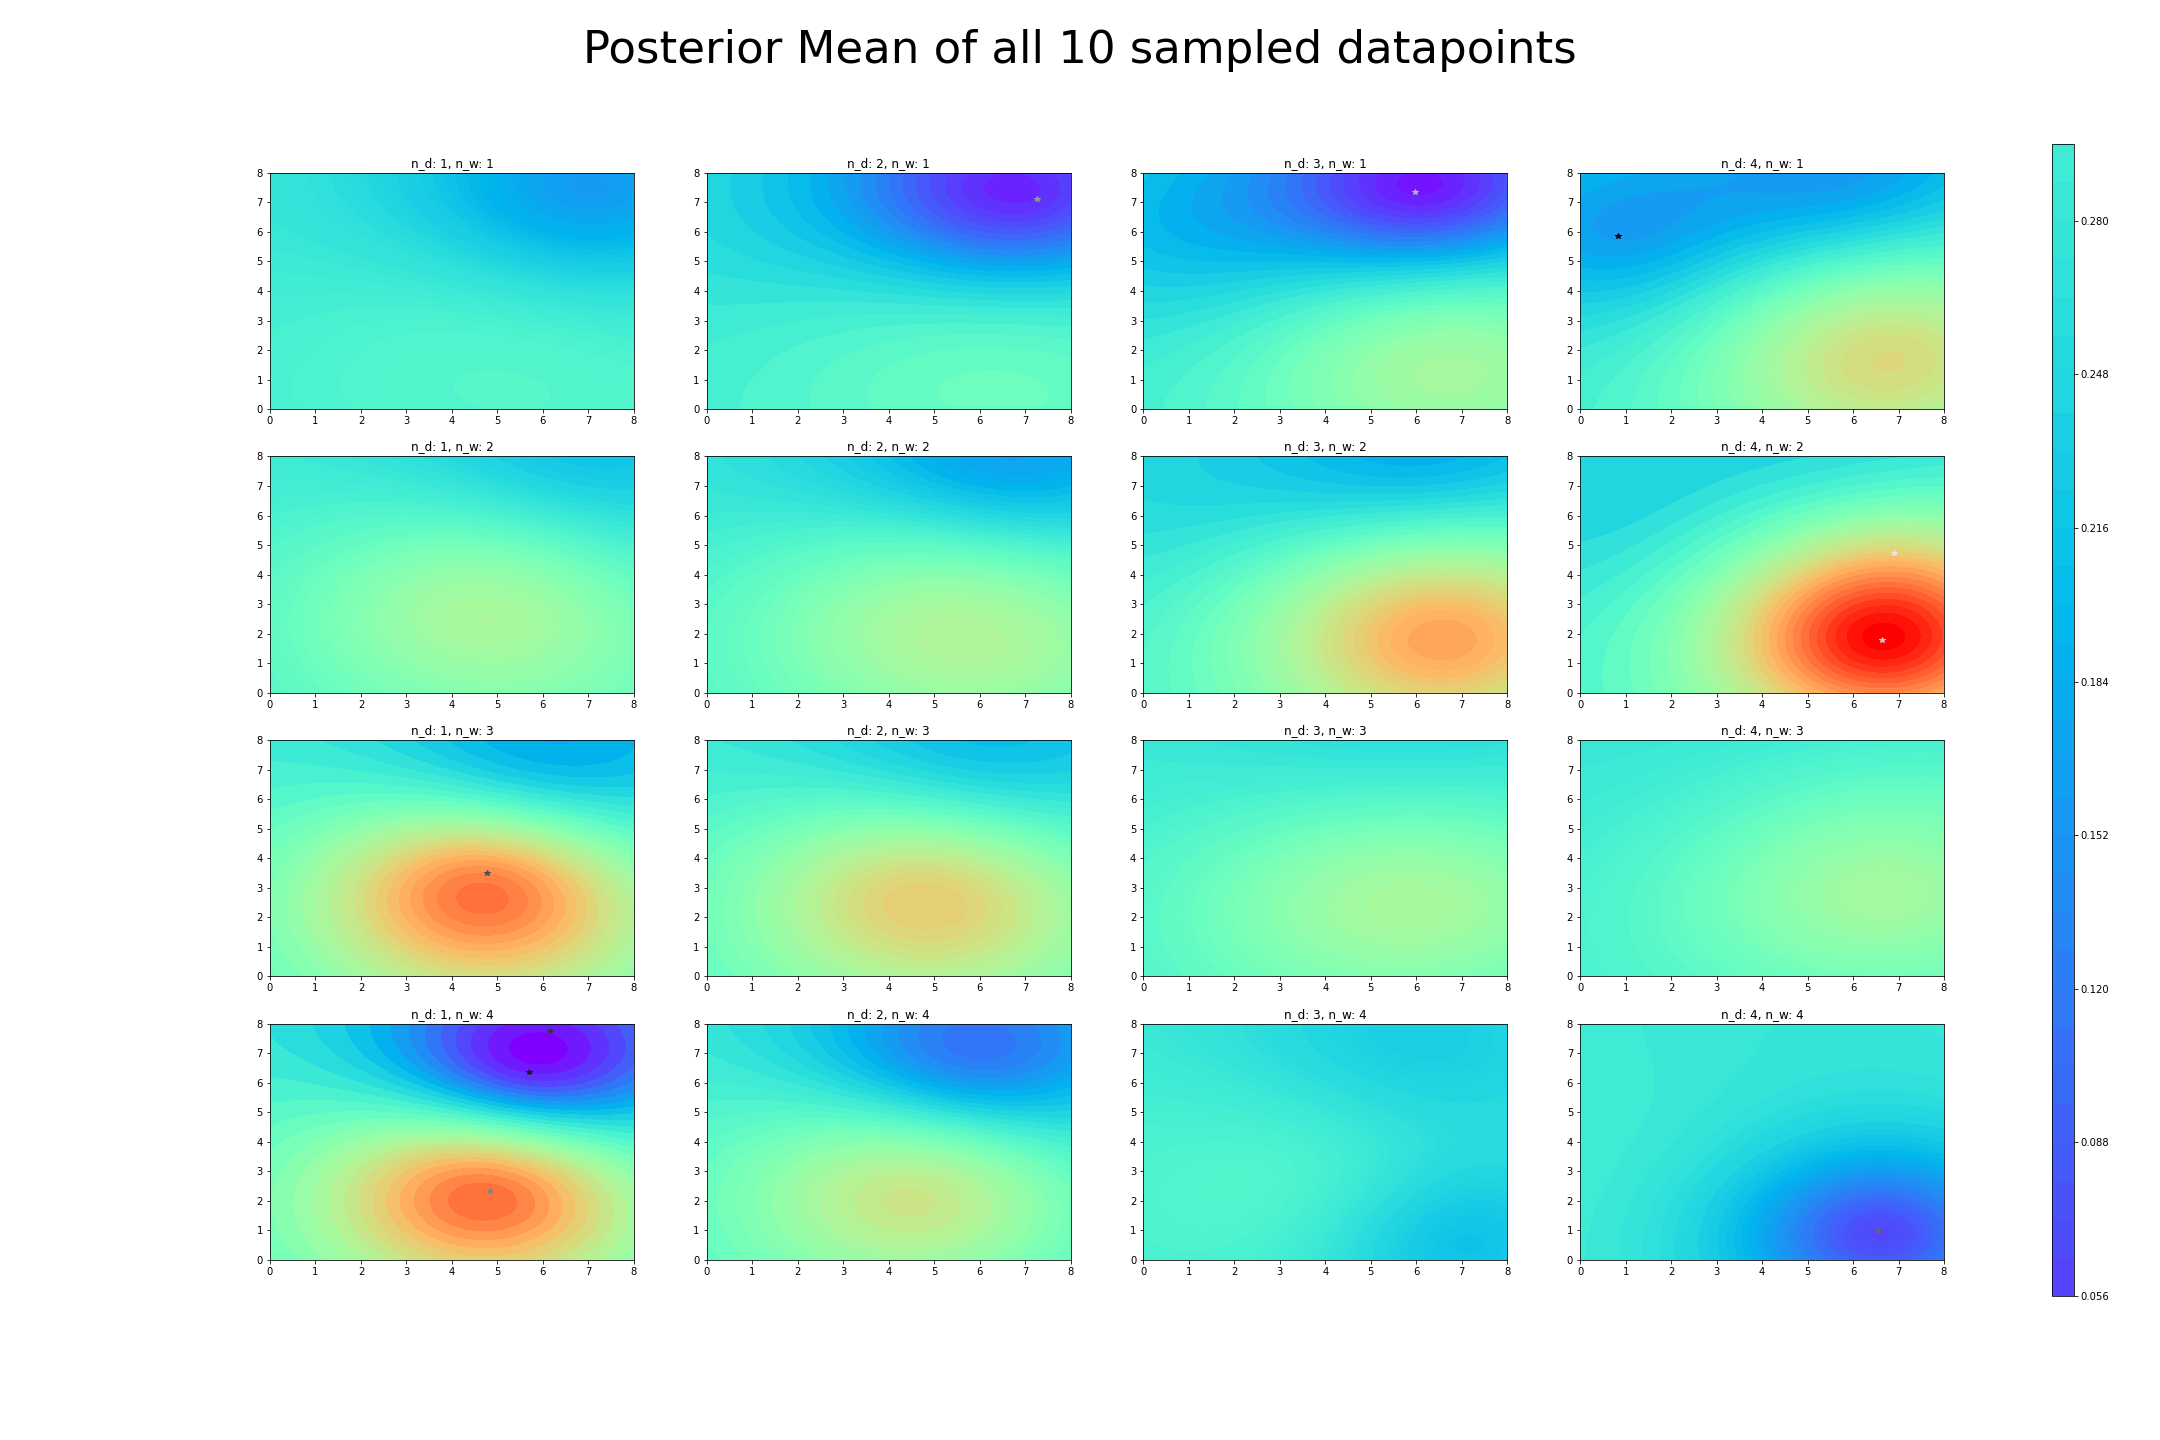
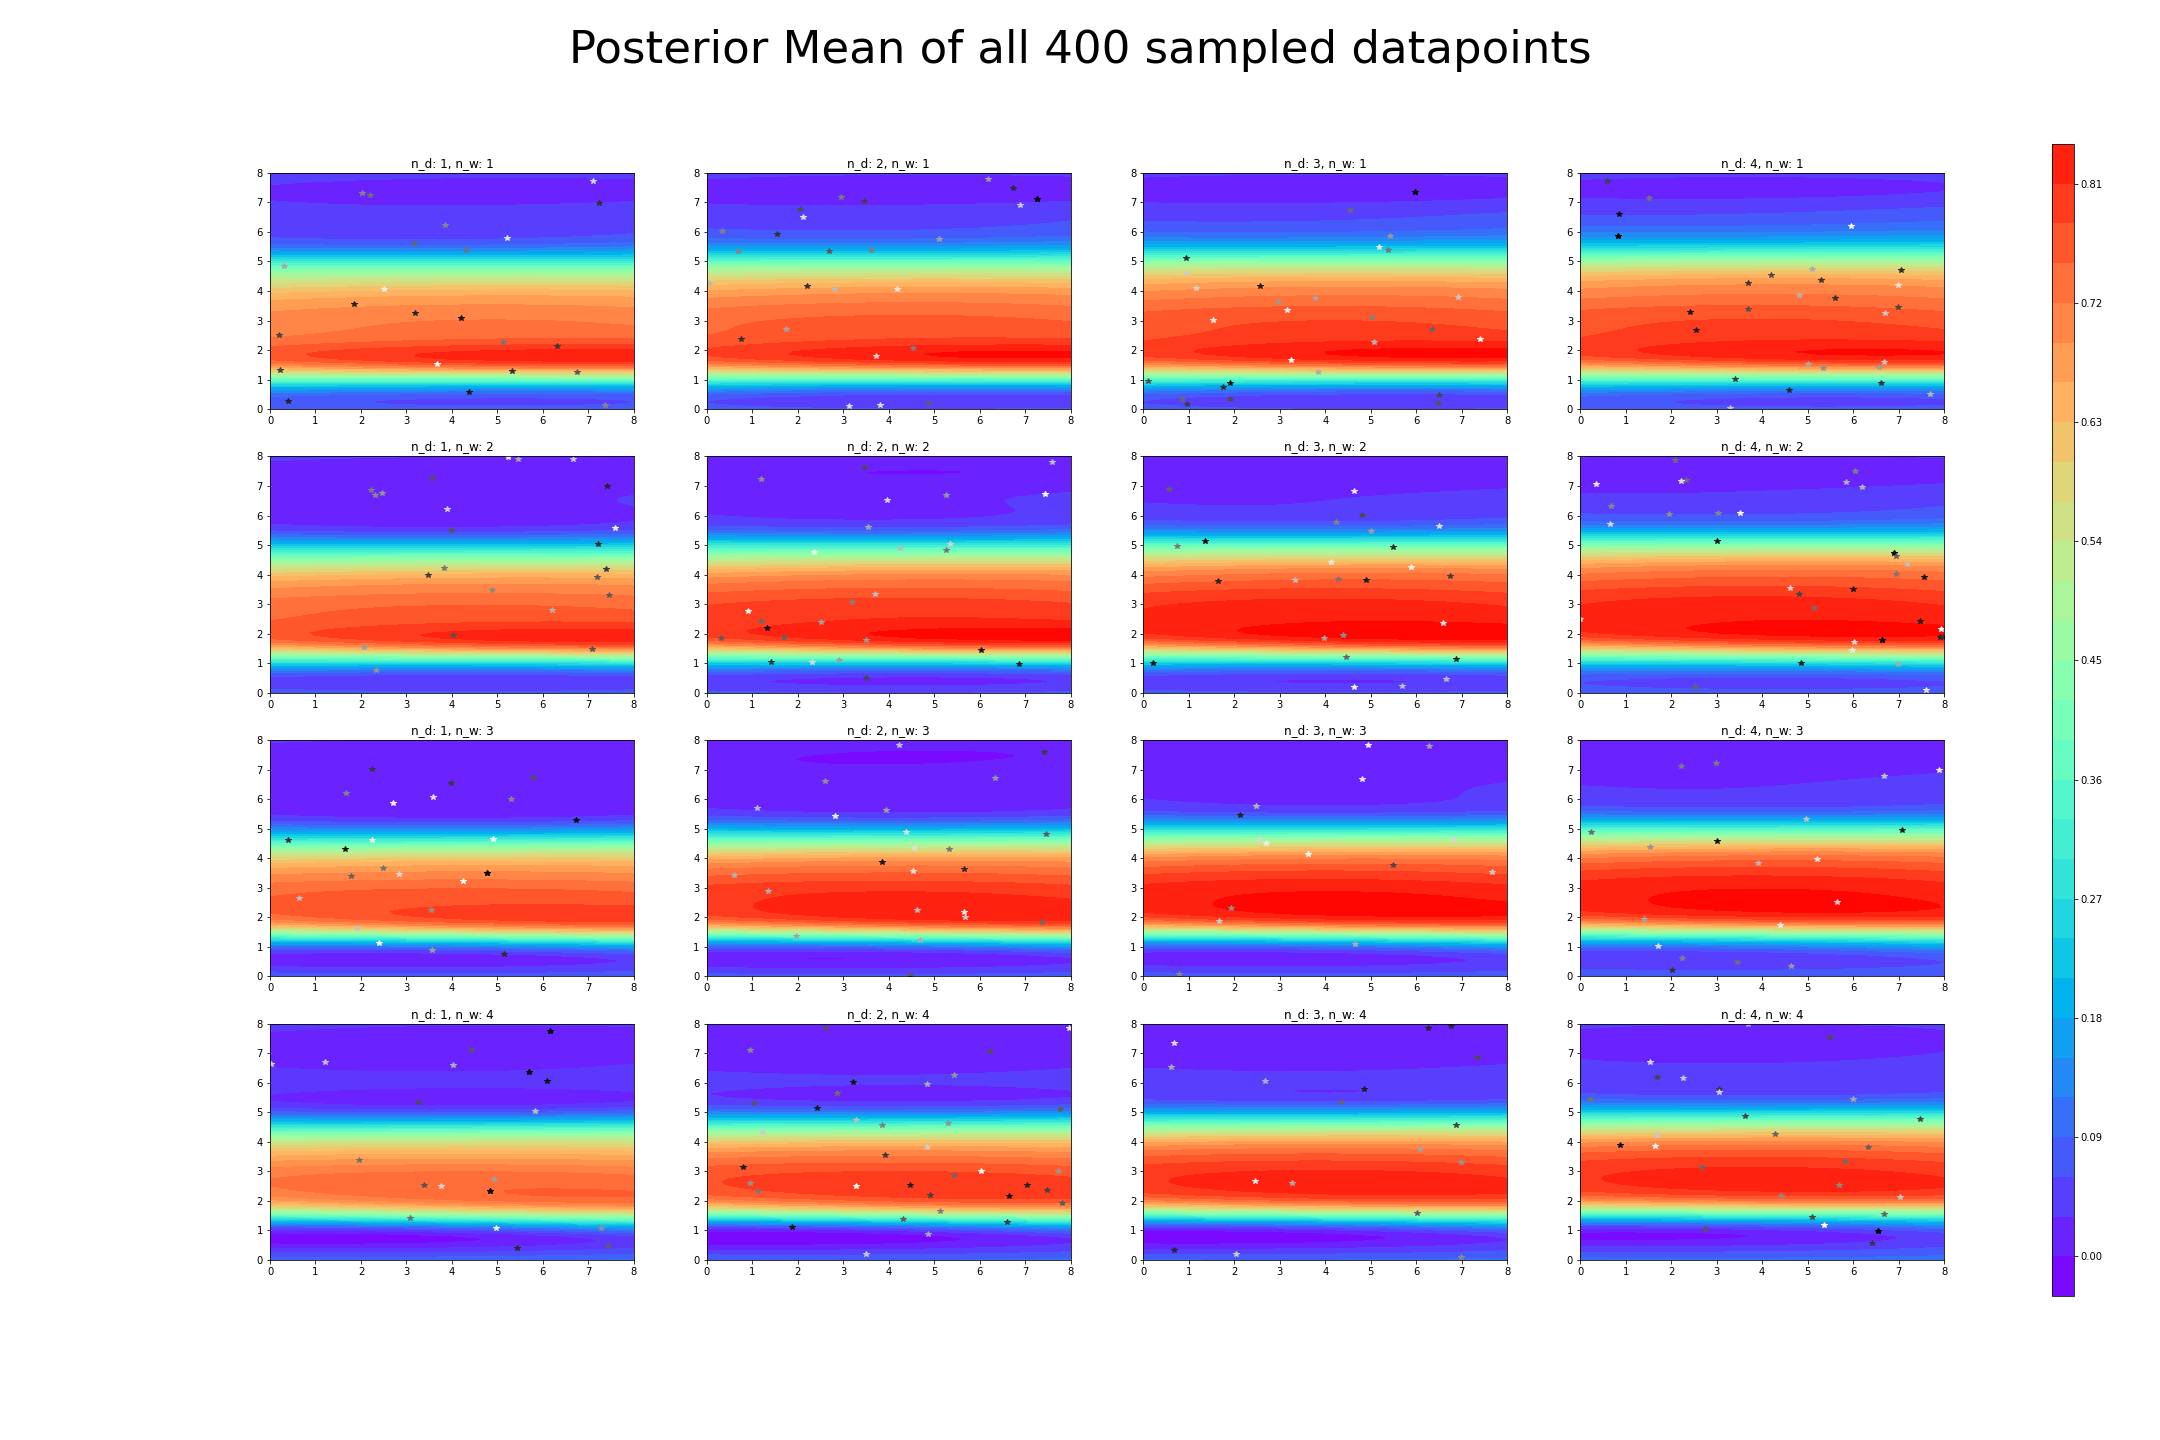
Finished run with random optimizer

diff --git a/grid_plot.py b/grid_plot.py
@@ -128,9 +128,9 @@ def generate_plot(iteration, gif=False, nstart=10, hypers_path = "results/bootst
     
 #Til Torben: bare brug denne kommando, gif generere vi imorgen
 generate_plot(
-    iteration=10, 
+    iteration=400, 
     gif=False, 
     nstart=10, 
-    hypers_path = "results/bootstrap_hyperparameters.npy", 
-    accs_path = "results/bootstrap_accuracies_val.npy"
+    hypers_path = "results/random_optimizer_hyperparameters.npy", 
+    accs_path = "results/random_optimizer_accuracies_val.npy"
 )
